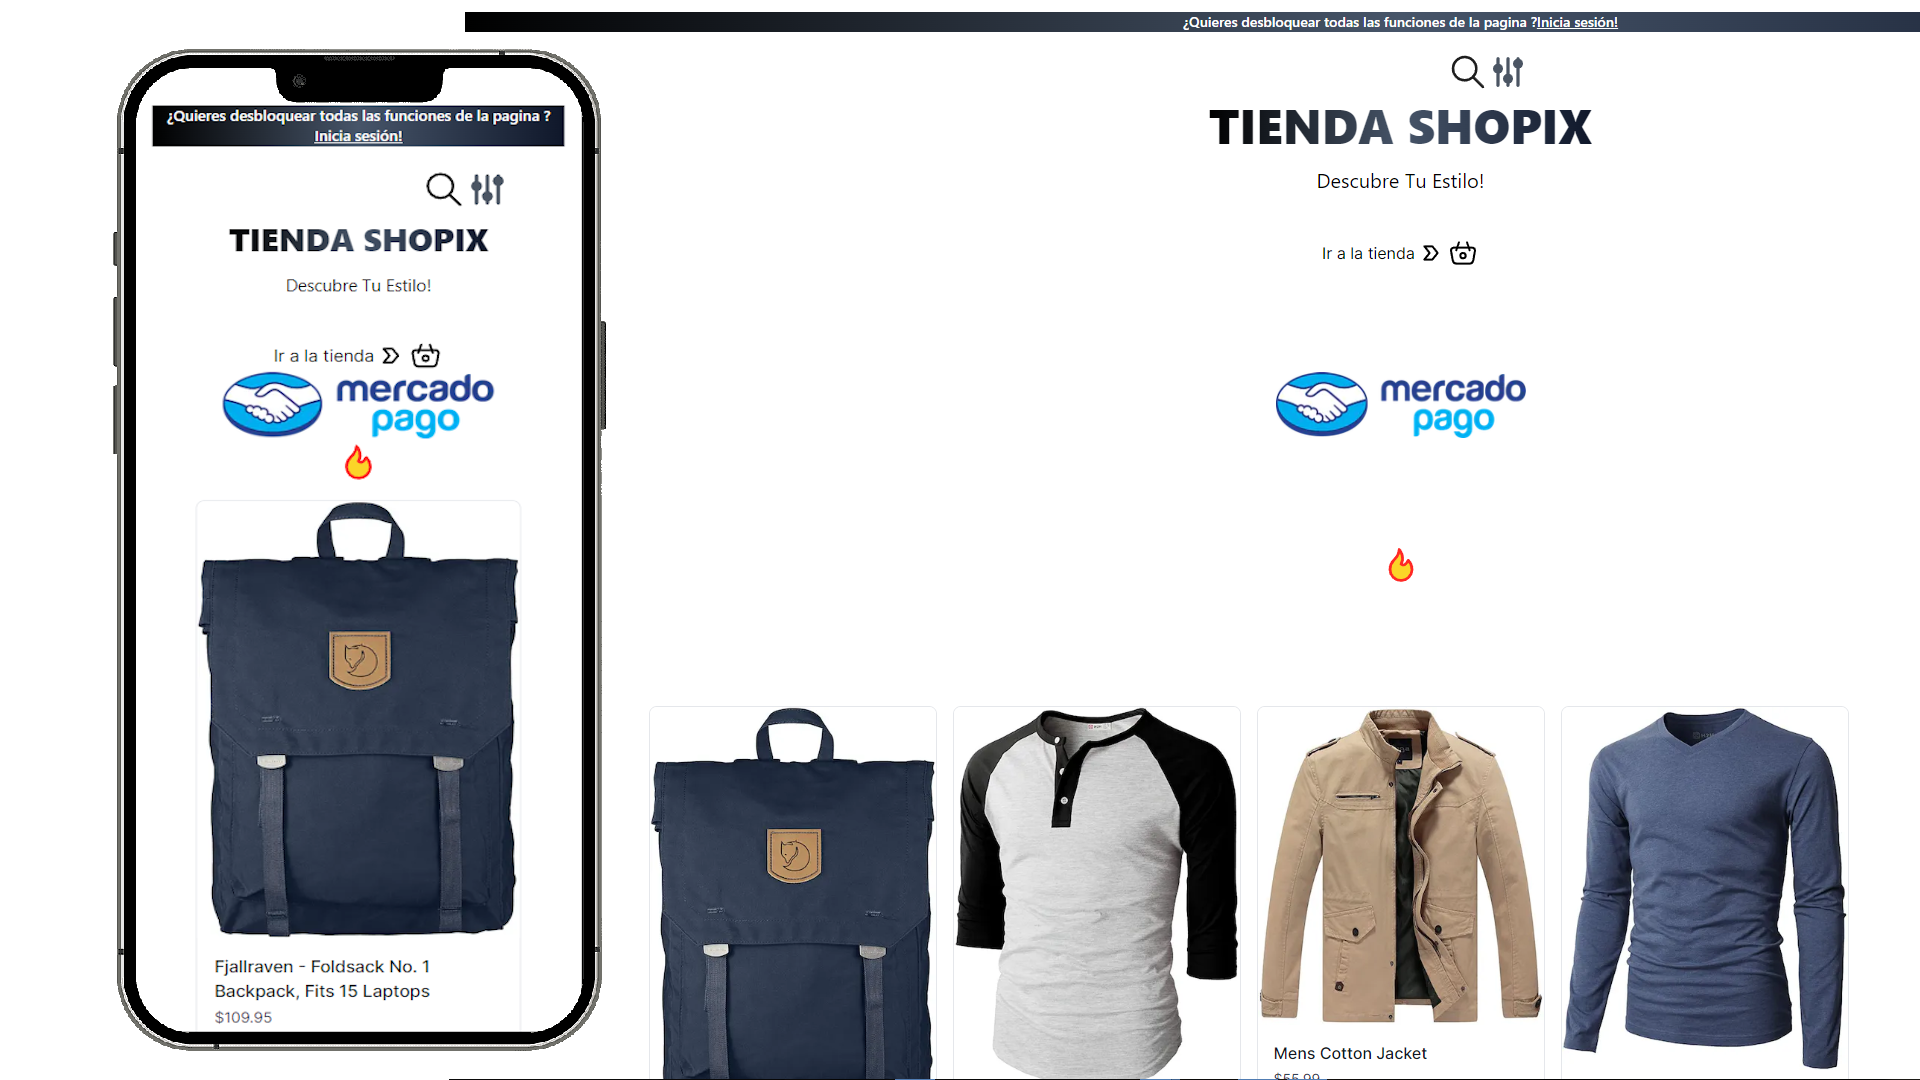
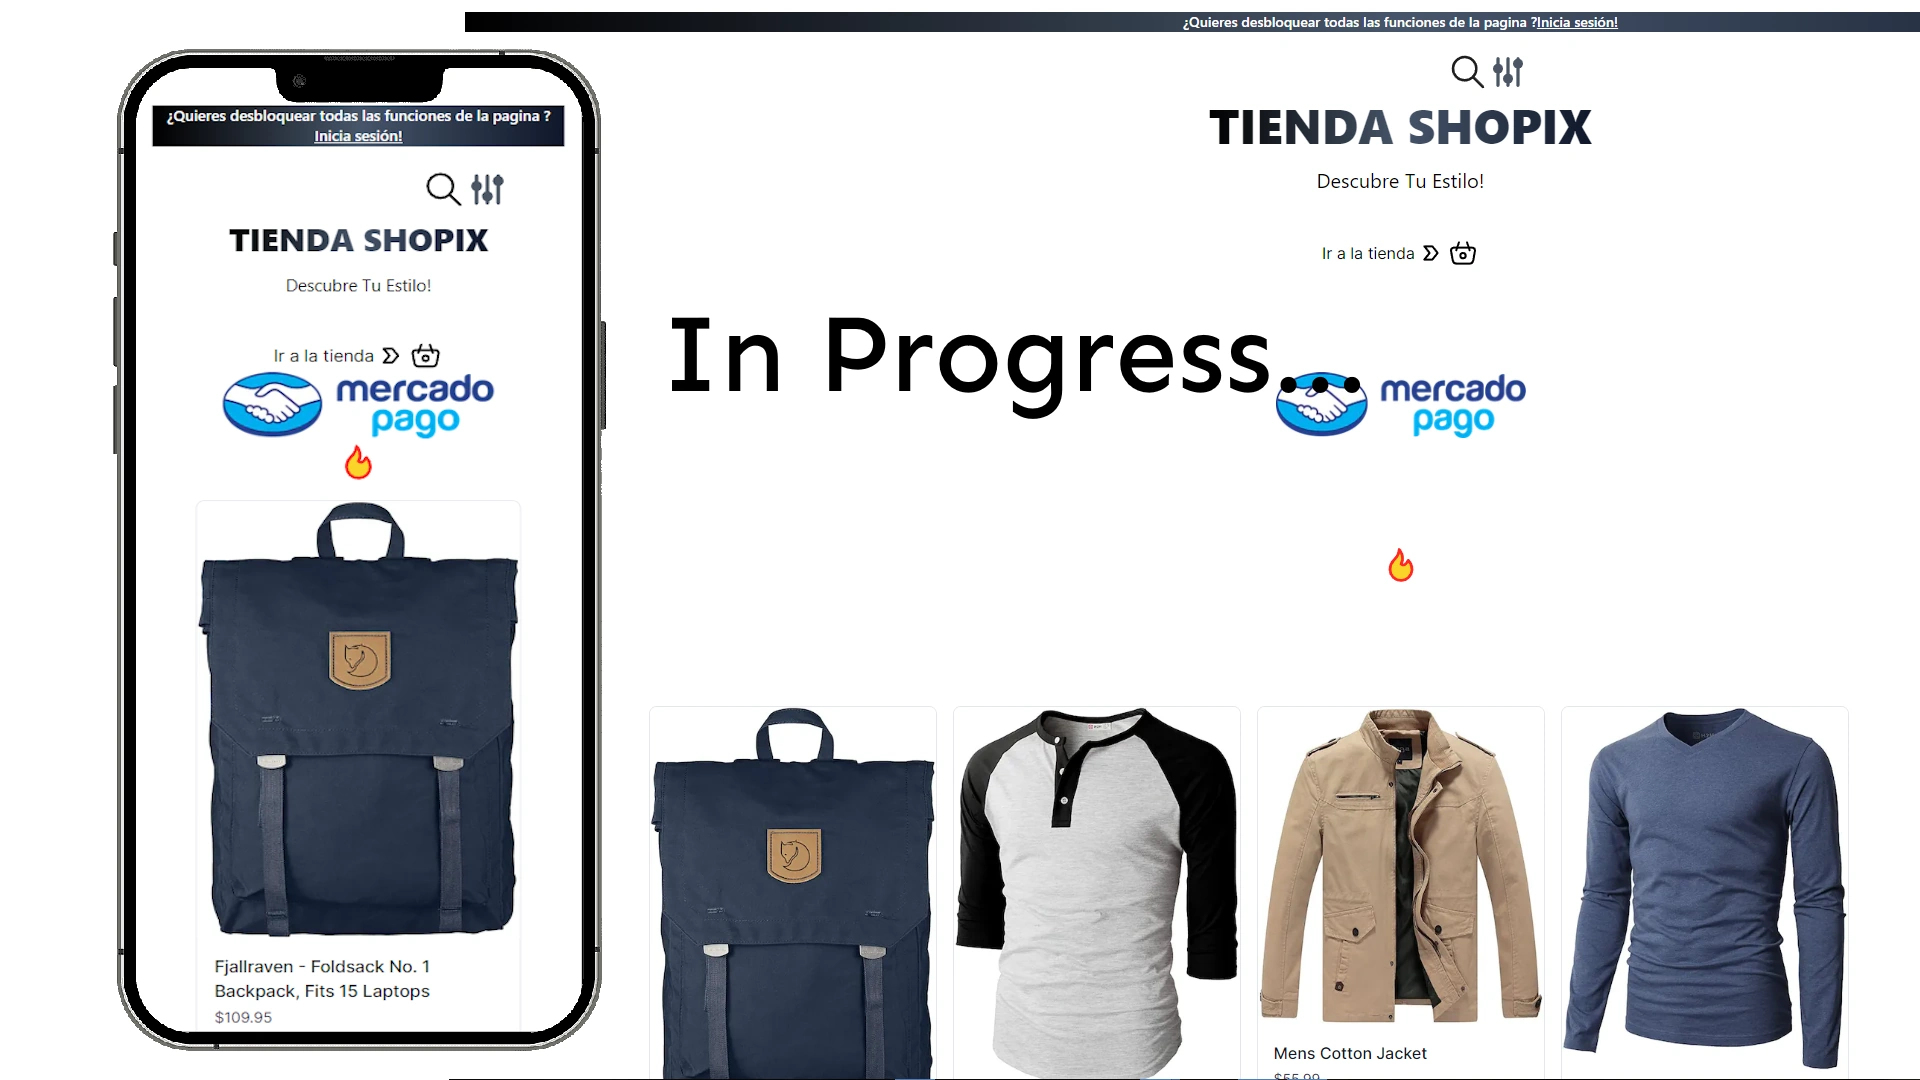
images update

diff --git a/src/app/components/ProjectSection.jsx b/src/app/components/ProjectSection.jsx
@@ -42,8 +42,8 @@ const projectsData = [
     id: 5,
     title: "Chat",
     description: "NextJS TypeScript Tailwind Prisma",
-    image: "/images/projects/5.png",
-    gitUrl: "/",
+    image: "/images/projects/InProgress.webp",
+    gitUrl: "https://github.com/MarcePalma/chat",
     previewUrl: "/",
   },
   {
